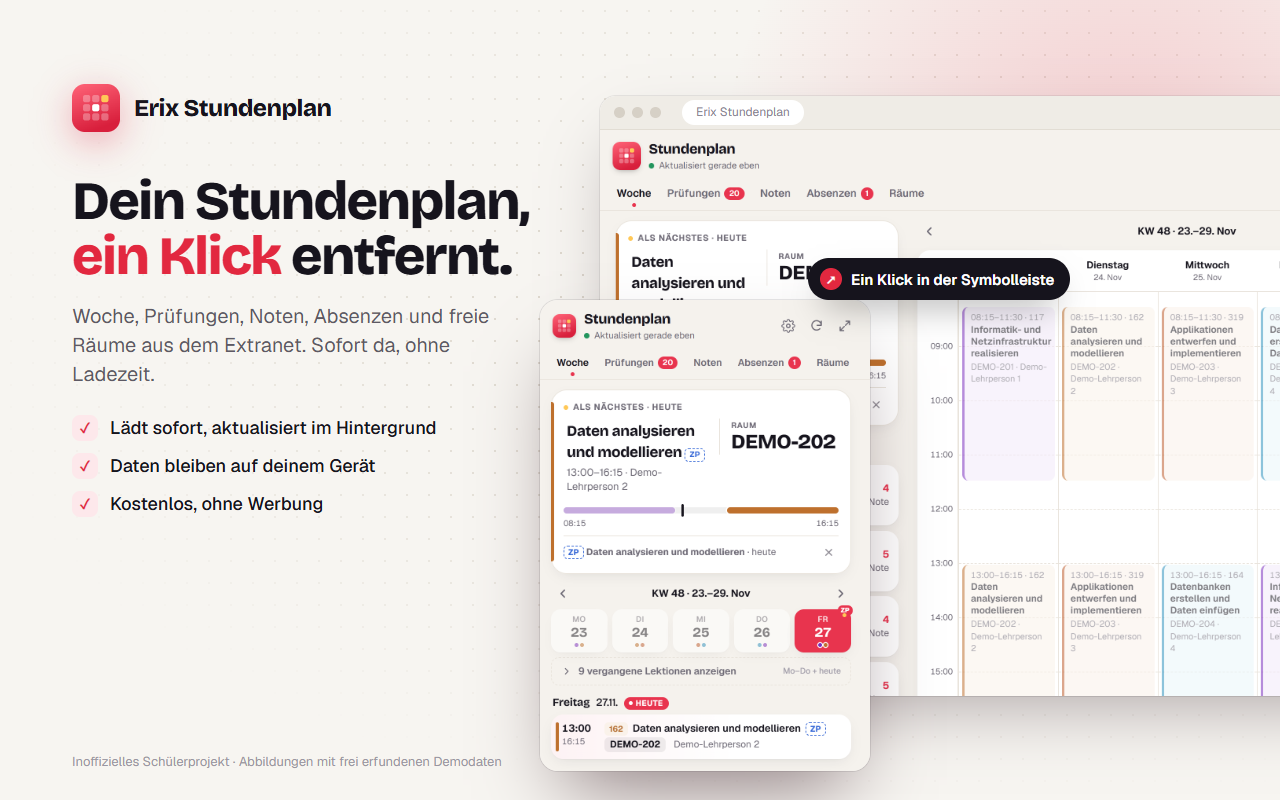
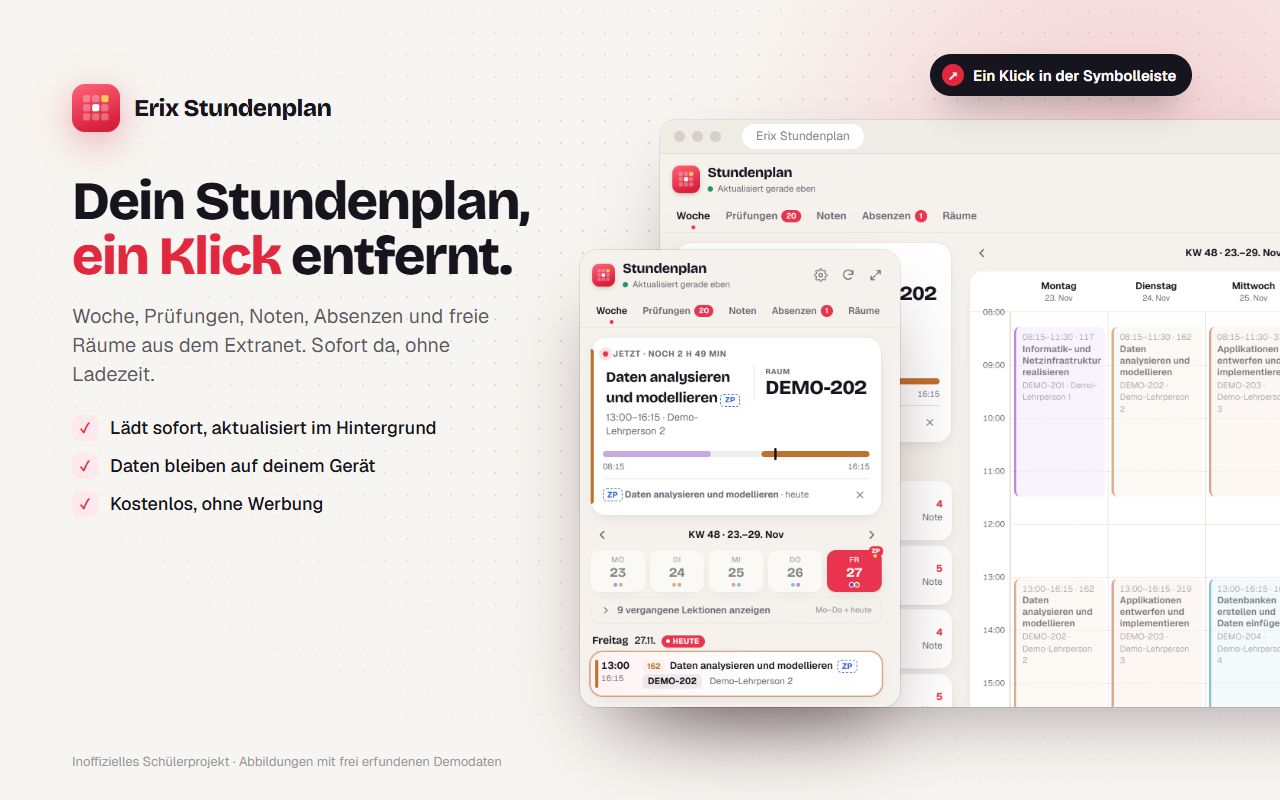
Store pictures and Chrome Web Store description for 1.14.0
- Small promo tile says "Erix Stundenplan" (the old name was split over
  two lines and missed by the rename).
- Overview picture: the toolbar badge sits above the window, so the
  popup no longer covers it.
- Rooms picture: three popups in the Neon, Pastell and Terminal styles
  under "9 Stile und eigene Themes" instead of colour dots. capture.mjs
  takes those style screenshots.
- Chrome Web Store description rewritten, with what's new in 1.14.0.

Changed region(s): [[0.4062, 0.125, 1.0, 1.0], [0.7188, 0.0625, 0.9688, 0.1562]]

diff --git a/store-assets/VEROEFFENTLICHUNG-DE.md b/store-assets/VEROEFFENTLICHUNG-DE.md
@@ -3,7 +3,7 @@
 ## Fertige Dateien
 - `release/v1.14.0/WISS-Stundenplan-Chrome-Web-Store.zip` (von `scripts/release.py` erstellt): ausschliesslich die Chrome-Erweiterung, ohne Entwicklungsschlüssel; manifest.json liegt direkt im ZIP.
 - `store-icon-128.png`: bestehendes Projektlogo mit transparentem Rand.
-- `screenshot-1…5-*-1280x800.png`: fünf gestaltete Store-Bilder (Übersicht, Prüfungen, Noten, Absenzen, Räume im Dunkelmodus), aufgebaut aus echten Screenshots der Erweiterung mit fiktiven Demodaten. In dieser Reihenfolge hochladen.
+- `screenshot-1…5-*-1280x800.png`: fünf gestaltete Store-Bilder (Übersicht, Prüfungen, Noten, Absenzen, Räume im Dunkelmodus mit drei Stilen), aufgebaut aus echten Screenshots der Erweiterung mit fiktiven Demodaten. In dieser Reihenfolge hochladen.
 - `promo-small-440x280.png`: kleine Werbekachel.
 - `promo-marquee-1400x560.png`: grosse Werbekachel.
 - `beschreibung-de.txt`: fertige ausführliche Beschreibung.
